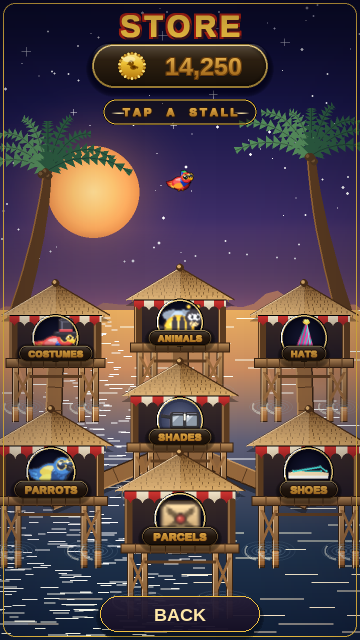
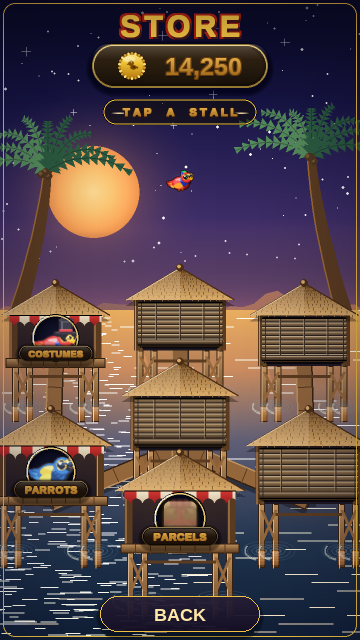
feat(store): ship bamboo-blind CLOSED stalls on the lagoon hub
Launch subset: only COSTUMES/PARROTS/PARCELS are open + clickable. ANIMALS,
SHOES, HATS, SHADES render as anonymous shut stalls (rolled bamboo blind, no
awning/dome/label, cool dormant veil) and are a silent no-op on tap.

The chosen closed treatment (art-director-approved round_2, option 1) is ported
into game/store_hub_closed.py and baked into the cached hub base; store_hub.
CLOSED_GROUPS gates which stalls are shut — emptying it restores the all-open
7-stall hub, so the full open design is kept intact for the future. Pure pygame,
both targets safe.

Claude-Session: https://claude.ai/code/session_01VWgQuAkvyxHkg8ghp6aQ5y

diff --git a/game/store_hub_closed.py b/game/store_hub_closed.py
@@ -1,0 +1,194 @@
+"""CLOSED-stall front for the lagoon hub — a rolled bamboo blind pulled down over
+a shut stall (no awning, no preview dome, no label). Split into its own module
+only to keep the change surgical; it is logically part of store_hub and reuses
+store_hub's vendored lagoon primitives so a closed hut matches an open hut to the
+pixel (same seat/body/roof/footprint — only the front is covered).
+
+Which category groups are shut is store_hub.CLOSED_GROUPS; emptying that set
+restores the all-open 7-stall hub, so the full open design is kept for the future.
+
+Pure pygame, both build targets safe (no numpy, no mixer, no docs import). The
+import from store_hub below runs lazily (store_hub imports this module inside
+_render_static_device, after it is fully loaded), so there is no import cycle.
+"""
+from __future__ import annotations
+
+import math
+import pygame
+
+from game.store_hub import (
+    m, vgrad, lerp_color, WHITE, soft_glow,
+    STALL_DARK, WOOD_MID, WOOD_LO, WOOD_HI,
+    THATCH_LO, THATCH_HI, THATCH_EDGE, DW, DH,
+)
+
+# Cool "dormant" veil (the store's locked-chip cool-slate), laid low-alpha over a
+# shut FRONT only so closed stalls sit back asleep while the open three pop warm —
+# never over the roof/stilts, so the warm village silhouette stays coherent.
+DORMANT_TINT = (70, 84, 118)
+
+
+def _dormant_veil(surf, rect, amount=0.15):
+    """A soft cool veil over a closed front so it reads dormant. Kept in the
+    12-18% band (cool the plane, not go muddy blue-grey), with a gentle top-down
+    deepening so the covered plane also sits a touch darker than the thatch roof
+    above it (a closed front must be a DISTINCT covered plane, not merge in)."""
+    v = pygame.Surface((rect.w, rect.h), pygame.SRCALPHA)
+    a = int(255 * amount)
+    for y in range(rect.h):
+        t = y / max(1, rect.h - 1)
+        aa = int(a * (1.0 + 0.35 * (1.0 - t)))
+        v.fill((*DORMANT_TINT, min(255, aa)), (0, y, rect.w, 1))
+    surf.blit(v, rect.topleft)
+
+
+def _contact_shadow(surf, rect, scale, strength=150):
+    """A soft dark contact line where the drawn-DOWN blind meets the opening lip,
+    so it reads as hung over the opening (not painted flat on the wall): a short
+    upward-fading band on the bottom edge + a crisp hairline at the lip."""
+    h = max(m(3), int(m(6) * scale))
+    band = pygame.Surface((rect.w, h), pygame.SRCALPHA)
+    for y in range(h):
+        t = y / max(1, h - 1)
+        a = int(strength * t ** 1.4)
+        band.fill((6, 6, 12, a), (0, y, rect.w, 1))
+    surf.blit(band, (rect.left, rect.bottom - h))
+    pygame.draw.line(surf, (0, 0, 0, 175), (rect.left, rect.bottom - max(1, m(1))),
+                     (rect.right, rect.bottom - max(1, m(1))), max(1, m(1)))
+
+
+def _shut_interior(surf, cx, body_top, half_w, body_h):
+    """Deepen the stall opening to a black shadow box so any gaps in the blind read
+    as an unlit, empty interior (nobody home) rather than warm timber."""
+    op = pygame.Rect(cx - half_w + m(6), body_top + m(2),
+                     half_w * 2 - m(12), body_h - m(4))
+    fill = (10, 9, 14)
+    surf.blit(vgrad(op.w, op.h, 0, lerp_color(fill, (26, 24, 36), 0.5), fill),
+              op.topleft)
+    return op
+
+
+def front_bamboo(surf, cx, body_top, half_w, body_h, deck_y, scale):
+    """ROLLED BAMBOO BLIND — a woven reed shade pulled DOWN over the front: stacked
+    thin horizontal reed slats (each a lit-top rounded dowel), a heavier bottom
+    weight bar, and two side cords. Warm cane, pulled a touch deeper than the
+    thatch so the reed plane separates from the straw above it at hub size."""
+    _shut_interior(surf, cx, body_top, half_w, body_h)
+    bl = pygame.Rect(cx - half_w + m(4), body_top + m(3),
+                     half_w * 2 - m(8), body_h - m(8))
+    CANE_HI = (200, 158, 96)
+    CANE = (156, 116, 64)
+    CANE_LO = (104, 72, 36)
+    CANE_EDGE = (64, 42, 20)
+    # faint back panel so slat gaps read against wood, not pure black
+    surf.blit(vgrad(bl.w, bl.h, 0, (52, 38, 24), (28, 20, 12)), bl.topleft)
+    slat_h = max(m(4), int(m(6) * scale))
+    y = bl.top
+    row = 0
+    while y < bl.bottom - slat_h:
+        r = pygame.Rect(bl.left, y, bl.w, slat_h - max(1, m(1)))
+        j = 0.06 * math.sin(row * 1.7)
+        top = lerp_color(CANE_HI, CANE, min(1.0, 0.15 + abs(j)))
+        surf.blit(vgrad(r.w, r.h, 0, top, CANE_LO), r.topleft)
+        pygame.draw.line(surf, lerp_color(CANE_HI, WHITE, 0.30),
+                         (r.left, r.top), (r.right, r.top), max(1, m(0.8)))
+        # deeper groove between reeds so each reads as a rounded rod, not a stripe
+        pygame.draw.line(surf, CANE_EDGE, (r.left, r.bottom),
+                         (r.right, r.bottom), max(1, m(1.1)))
+        groove = pygame.Surface((r.w, max(1, m(1.6))), pygame.SRCALPHA)
+        groove.fill((10, 7, 4, 105))
+        surf.blit(groove, (r.left, r.bottom))
+        y += slat_h
+        row += 1
+    # vertical binding cords woven through the reeds (three tracks)
+    for fx in (0.22, 0.5, 0.78):
+        vx = bl.left + int(bl.w * fx)
+        pygame.draw.line(surf, CANE_EDGE, (vx, bl.top), (vx, bl.bottom),
+                         max(1, m(1.2)))
+        pygame.draw.line(surf, lerp_color(CANE_HI, WHITE, 0.2),
+                         (vx - m(1), bl.top), (vx - m(1), bl.bottom), max(1, m(0.6)))
+    # heavier bottom weight bar (the "pulled all the way down" tell)
+    wb = pygame.Rect(bl.left - m(1), bl.bottom - int(slat_h * 1.4),
+                     bl.w + m(2), int(slat_h * 1.4) + m(1))
+    wbsh = pygame.Surface((wb.w, m(4)), pygame.SRCALPHA)
+    for yy in range(m(4)):
+        wbsh.fill((8, 6, 4, int(90 * (1 - yy / m(4)))), (0, yy, wb.w, 1))
+    surf.blit(wbsh, (wb.left, wb.top - m(4)))
+    surf.blit(vgrad(wb.w, wb.h, m(2), CANE, CANE_EDGE), wb.topleft)
+    pygame.draw.line(surf, lerp_color(CANE, WHITE, 0.35),
+                     (wb.left, wb.top + m(1)), (wb.right, wb.top + m(1)), max(1, m(1.2)))
+    pygame.draw.rect(surf, CANE_EDGE, wb, width=max(1, m(1)), border_radius=m(2))
+    # side pull-cords looping down from the eave, with a small toggle knot
+    for sx in (bl.left + m(3), bl.right - m(3)):
+        pygame.draw.line(surf, (54, 40, 24), (sx, bl.top - m(2)),
+                         (sx, bl.bottom + m(4)), max(1, m(1)))
+        pygame.draw.circle(surf, CANE_LO, (sx, bl.bottom + m(4)), max(1, m(2)))
+    _dormant_veil(surf, bl, 0.15)
+    # eave shadow so the blind hangs UNDER the roof
+    pygame.draw.line(surf, (0, 0, 0, 150), (bl.left, bl.top),
+                     (bl.right, bl.top), max(1, m(1.4)))
+    _contact_shadow(surf, bl, scale)
+
+
+def draw_hut_closed(surf, cx, deck_y, scale):
+    """A SHUT hut: identical seat/body/roof/footprint to store_hub.draw_hut, but the
+    awning + preview dome + label are replaced by the rolled bamboo blind. No text,
+    no preview — the silhouette matches an open hut to the pixel."""
+    half_w = int(m(58) * scale)
+    body_h = int(m(64) * scale)
+    roof_h = int(m(40) * scale)
+    eave = int(m(10) * scale)
+    body_top = deck_y - body_h
+    roof_apex_y = body_top - roof_h
+
+    soft_glow(surf, cx, deck_y, half_w + eave, (0, 0, 0), 110, layers=6)
+
+    body_rect = pygame.Rect(cx - half_w, body_top, half_w * 2, body_h)
+    surf.blit(vgrad(body_rect.w, body_rect.h, 0,
+                    lerp_color(STALL_DARK, WOOD_MID, 0.25), STALL_DARK),
+              body_rect.topleft)
+    for px in (body_rect.left, body_rect.right - m(8)):
+        pygame.draw.rect(surf, WOOD_LO, (px, body_top, m(8), body_h))
+        pygame.draw.line(surf, WOOD_HI, (px + m(1), body_top),
+                         (px + m(1), deck_y), max(1, m(1)))
+
+    rl = (cx - half_w - eave, body_top)
+    rr = (cx + half_w + eave, body_top)
+    apex = (cx, roof_apex_y)
+    shs = pygame.Surface((DW, DH), pygame.SRCALPHA)
+    pygame.draw.polygon(shs, (0, 0, 0, 80),
+                        [(rl[0], rl[1] + m(6)), (rr[0], rr[1] + m(6)),
+                         (apex[0], apex[1] + m(6))])
+    surf.blit(shs, (0, 0))
+    courses = 9
+    for i in range(courses):
+        t0 = i / courses
+        t1 = (i + 1) / courses
+        y_lo = body_top - (body_top - roof_apex_y) * t0
+        y_hi = body_top - (body_top - roof_apex_y) * t1
+        xl0 = rl[0] + (apex[0] - rl[0]) * t0
+        xr0 = rr[0] + (apex[0] - rr[0]) * t0
+        xl1 = rl[0] + (apex[0] - rl[0]) * t1
+        xr1 = rr[0] + (apex[0] - rr[0]) * t1
+        col = lerp_color(THATCH_LO, THATCH_HI, 1.0 - t0)
+        pygame.draw.polygon(surf, col, [(xl0, y_lo), (xr0, y_lo),
+                                        (xr1, y_hi), (xl1, y_hi)])
+        fringe_n = 18
+        for fdx in range(fringe_n):
+            ft = fdx / fringe_n
+            fx = xl0 + (xr0 - xl0) * ft
+            drop = m(3) * scale * (0.5 + 0.5 * math.sin(fdx * 2.3 + i))
+            pygame.draw.line(surf, lerp_color(col, THATCH_EDGE, 0.5),
+                             (fx, y_lo), (fx, y_lo + drop), max(1, m(0.8)))
+    lit = pygame.Surface((DW, DH), pygame.SRCALPHA)
+    pygame.draw.polygon(lit, (*lerp_color(THATCH_HI, WHITE, 0.25), 90),
+                        [rl, apex, (cx, body_top)])
+    surf.blit(lit, (0, 0))
+    pygame.draw.line(surf, THATCH_EDGE, rl, apex, max(1, m(1.6)))
+    pygame.draw.line(surf, THATCH_EDGE, rr, apex, max(1, m(1.6)))
+    pygame.draw.line(surf, lerp_color(THATCH_HI, WHITE, 0.4),
+                     rl, apex, max(1, m(1.0)))
+    pygame.draw.circle(surf, THATCH_EDGE, apex, m(4))
+    pygame.draw.circle(surf, THATCH_HI, (apex[0] - m(1), apex[1] - m(1)), m(2))
+
+    front_bamboo(surf, cx, body_top, half_w, body_h, deck_y, scale)

diff --git a/game/store_hub.py b/game/store_hub.py
@@ -1159,6 +1159,12 @@ def _draw_header_static(surf):
 # =============================================================================
 # Static base compose — the whole village over the lagoon, built once at SS.
 # =============================================================================
+# Launch gating: these category stalls render SHUT (bamboo blind) and are made
+# non-clickable in StoreScene._handle_hub_tap. Emptying this set restores the
+# all-open 7-stall hub — the full open design is kept intact for the future.
+CLOSED_GROUPS = frozenset({"animal", "shoes", "hats", "shades"})
+
+
 def _render_static_device():
     """The full lagoon scene at device resolution: sky, water, planks, huts (back
     -to-front), Pip, header shell, vignette. Returns the SS surface; the caller
@@ -1191,7 +1197,13 @@ def _render_static_device():
         depth_t = max(0.0, min(1.0, (h["deck_y"] / DH - 0.55) / 0.31))
         ring_scale = 1.0 + 0.45 * depth_t
         draw_stilts(surf, h["cx"], h["deck_y"], half_w, post_len, ring_scale)
-        draw_hut(surf, h["cx"], h["deck_y"], h["scale"], h["group"], h["label"])
+        if h["group"] in CLOSED_GROUPS:
+            # Launch subset: only COSTUMES/PARROTS/PARCELS open. Shut stalls get a
+            # rolled bamboo blind (no awning/dome/label) — anonymous, non-clickable.
+            from game.store_hub_closed import draw_hut_closed
+            draw_hut_closed(surf, h["cx"], h["deck_y"], h["scale"])
+        else:
+            draw_hut(surf, h["cx"], h["deck_y"], h["scale"], h["group"], h["label"])
 
     draw_pip(surf, int(DW * 0.50), int(DH * 0.285))
 
@@ -1258,6 +1270,10 @@ class LagoonHub:
     the module-level cached static base; render() blits that base then draws the
     live coin balance on top. The StoreScene owns chrome/input — this only paints
     the lagoon + baked header + live balance and exposes per-stall tap rects."""
+
+    # Which stalls are shut (baked closed + non-clickable). Exposed here so the
+    # StoreScene tap handler can gate on it without importing the module const.
+    CLOSED_GROUPS = CLOSED_GROUPS
 
     def __init__(self) -> None:
         global _BASE, _STALL_RECTS

diff --git a/game/store.py b/game/store.py
@@ -867,6 +867,10 @@ class StoreScene:
             return None
         for group, r in self.hub.stall_rects.items():
             if r.collidepoint(pos):
+                # Shut stalls (bamboo blind) are inert: a tap is a silent no-op,
+                # never routing into the category or flashing a message.
+                if group in self.hub.CLOSED_GROUPS:
+                    return None
                 self.tab = _GROUP_TAB[group]
                 self.page = 0  # each category opens on its first page
                 self._scroll_tab_into_view(self.tab)
